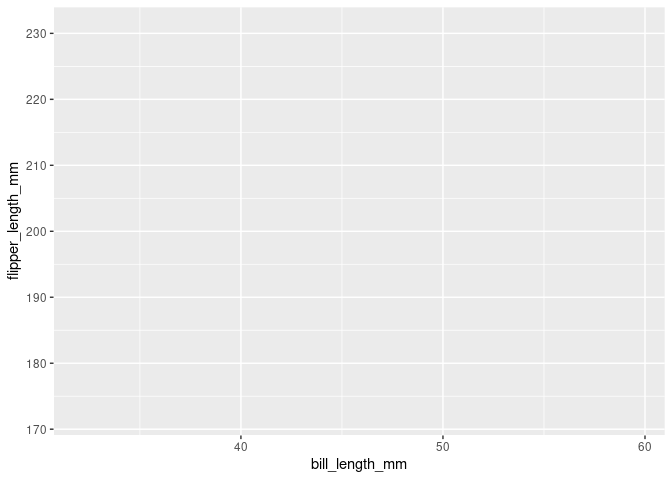
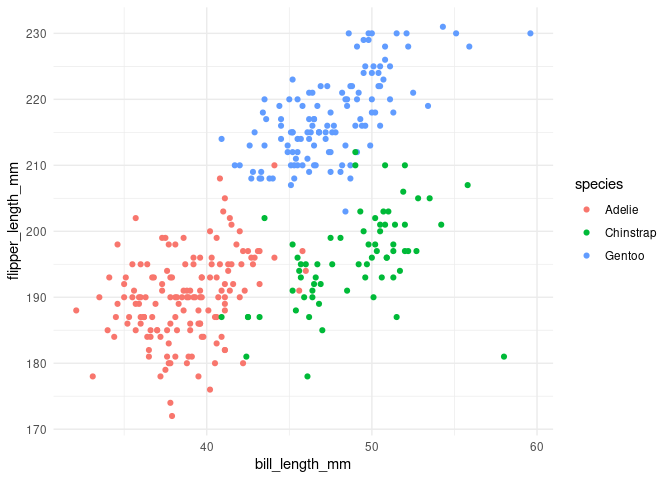
fix legend inside example

diff --git a/README.md b/README.md
@@ -44,7 +44,11 @@ penguins |>
   ggplot(aes(x = bill_length_mm,
              y = flipper_length_mm,
              colour = species)) +
-  legend_inside()
+  geom_point() +
+  legend_inside() +
+  theme_minimal()
+#> Warning: Removed 2 rows containing missing values or values outside the scale range
+#> (`geom_point()`).
 ```
 
 <img src="man/figures/README-unnamed-chunk-2-1.png" width="100%" />
